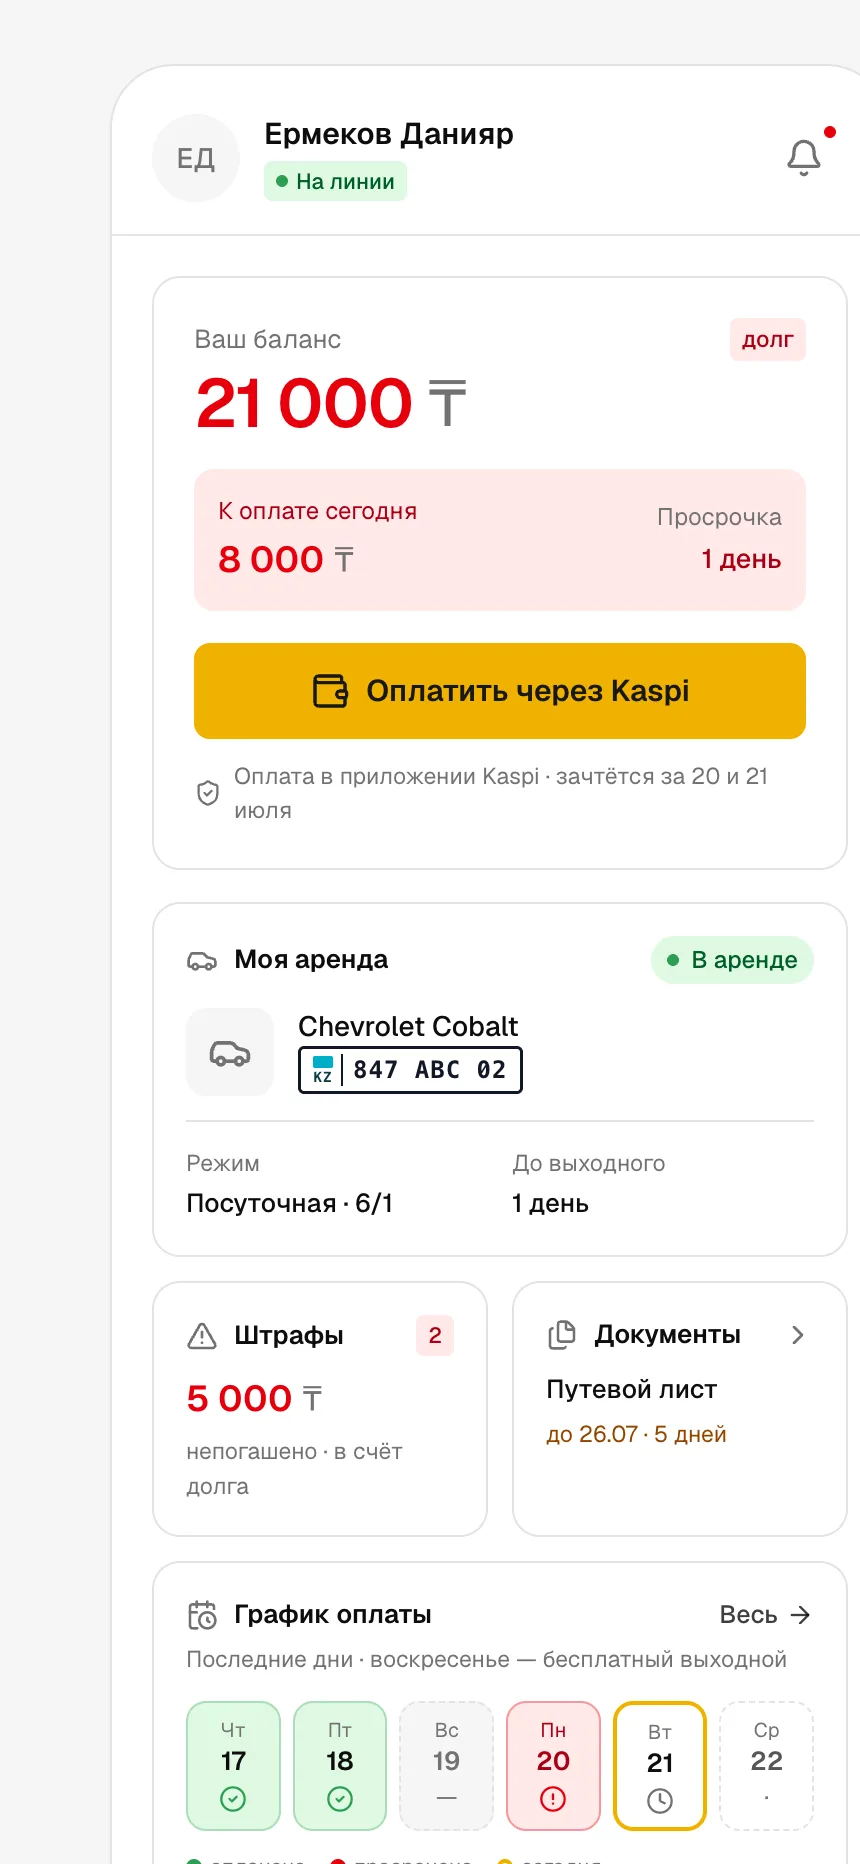
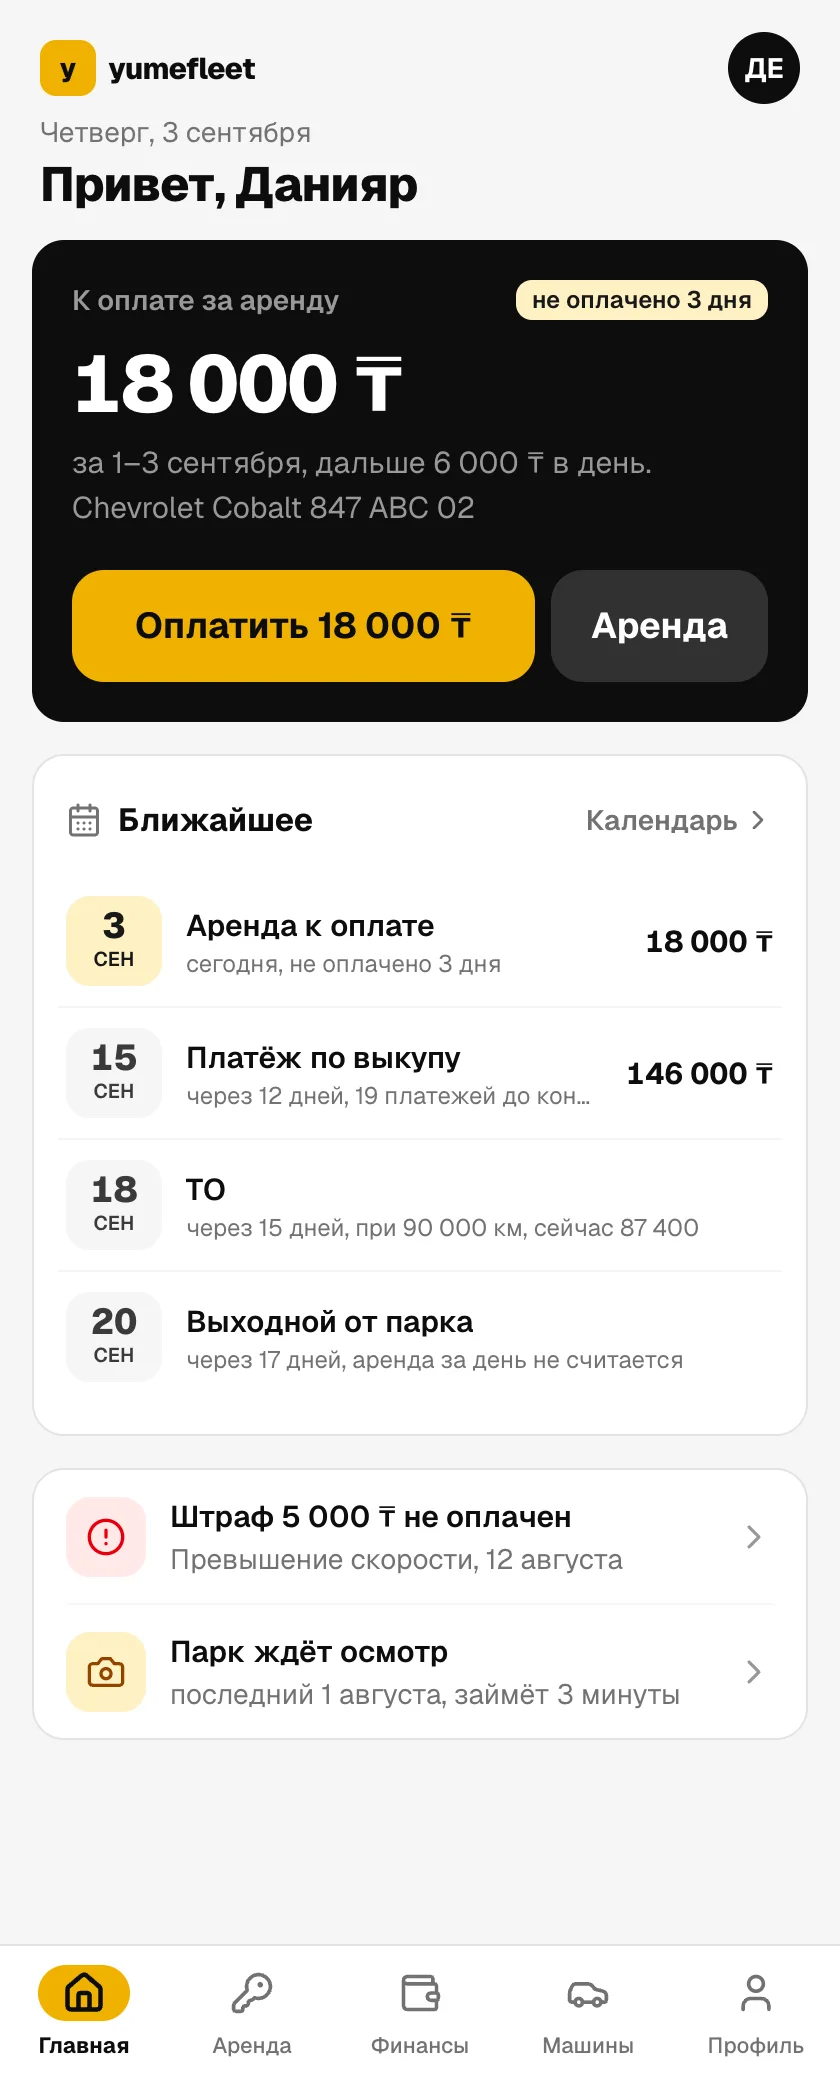
Логотипы интеграций, экран приложения водителя в пропорции телефона, номера карточек без наложения

diff --git a/index.html b/index.html
@@ -235,7 +235,7 @@
         <li><svg><use href="#i-check"/></svg>Вход по номеру телефона, без установки из стора</li>
       </ul>
     </div>
-    <div class="drv__phone" data-reveal="scale"><img width="860" height="1864" src="assets/screens/driver-mobile.webp" alt="Кабинет водителя Yume Fleet на телефоне: баланс, аренда, штрафы" loading="lazy"></div>
+    <div class="drv__phone" data-reveal="scale"><img width="840" height="2080" src="assets/screens/driver-mobile.webp" alt="Приложение водителя Yume Fleet: долг за аренду, оплата, штрафы, ТО" loading="lazy"></div>
   </div>
 </section>
 
@@ -247,14 +247,14 @@
       <p class="lead" data-reveal style="--d:.1s">Ничего не нужно менять в привычных инструментах. Yume Fleet собирает данные из них в одно место.</p>
     </div>
     <div class="ints" data-stagger>
-      <a class="int" href="#features"><i><img src="assets/img/kaspi-symbol.svg" alt=""></i><div><b>Kaspi Pay</b><span>оплата ссылкой, QR, автосписания</span></div></a>
-      <a class="int" href="#features"><i>eGov</i><div><b>eGov mobile</b><span>подписание договоров и актов</span></div></a>
-      <a class="int" href="#features"><i>ЕРАП</i><div><b>Штрафы ПДД и ЕРАП</b><span>протоколы, сверка оплаты по БИН</span></div></a>
-      <a class="int" href="#features"><i>ИИН</i><div><b>Реестр должников</b><span>проверка водителя через data.egov.kz</span></div></a>
-      <a class="int" href="#features"><i><svg><use href="#i-shield"/></svg></i><div><b>Чёрный список парков</b><span>общая база проблемных водителей</span></div></a>
-      <a class="int int--soon" href="#features"><i><svg><use href="#i-pin"/></svg></i><div><b>Wialon GPS <em>скоро</em></b><span>где машина, пробег для ТО</span></div></a>
-      <a class="int int--soon" href="#features"><i>Я</i><div><b>Яндекс Флит <em>скоро</em></b><span>машины и водители из агрегатора</span></div></a>
-      <a class="int" href="#features"><i><svg><use href="#i-inbox"/></svg></i><div><b>Excel</b><span>импорт парка и водителей, экспорт отчётов</span></div></a>
+      <a class="int" href="#features"><i><img src="assets/img/int/kaspi.png" alt="" width="42" height="42"></i><div><b>Kaspi Pay</b><span>оплата ссылкой, QR, автосписания</span></div></a>
+      <a class="int" href="#features"><i><img src="assets/img/int/egov.png" alt="" width="42" height="42"></i><div><b>eGov mobile</b><span>подписание договоров и актов</span></div></a>
+      <a class="int" href="#features"><i><img src="assets/img/int/erap.svg" alt="" width="42" height="42"></i><div><b>Штрафы ПДД и ЕРАП</b><span>протоколы, сверка оплаты по БИН</span></div></a>
+      <a class="int" href="#features"><i><img src="assets/img/int/iin.svg" alt="" width="42" height="42"></i><div><b>Реестр должников</b><span>проверка водителя через data.egov.kz</span></div></a>
+      <a class="int" href="#features"><i><img src="assets/logo/tile-dark-yellow-mark.svg" alt="" width="42" height="42"></i><div><b>Чёрный список парков</b><span>общая база проблемных водителей</span></div></a>
+      <a class="int int--soon" href="#features"><i><img src="assets/img/int/wialon.png" alt="" width="42" height="42"></i><div><b>Wialon GPS <em>скоро</em></b><span>где машина, пробег для ТО</span></div></a>
+      <a class="int int--soon" href="#features"><i><img src="assets/img/int/yandex.svg" alt="" width="42" height="42"></i><div><b>Яндекс Флит <em>скоро</em></b><span>машины и водители из агрегатора</span></div></a>
+      <a class="int" href="#features"><i><img src="assets/img/int/excel.png" alt="" width="42" height="42"></i><div><b>Excel</b><span>импорт парка и водителей, экспорт отчётов</span></div></a>
     </div>
   </div>
 </section>

diff --git a/css/styles.css b/css/styles.css
@@ -144,7 +144,9 @@ p{margin:0}
 .pain small{font-size:12px;font-weight:700;letter-spacing:.12em;color:var(--yellow-deep)}
 .pain h3{font-size:22px;letter-spacing:-.02em}
 .pain p{color:var(--muted);font-size:15px}
-.pain__num{position:absolute;right:18px;top:10px;font-size:88px;font-weight:800;letter-spacing:-.06em;color:var(--yellow-soft);line-height:1;pointer-events:none}
+.pain__num{position:absolute;right:18px;bottom:-18px;font-size:88px;font-weight:800;letter-spacing:-.06em;color:var(--yellow-soft);line-height:1;pointer-events:none;z-index:0}
+.pain>*:not(.pain__num){position:relative;z-index:1}
+.pain{padding-bottom:56px}
 @media (max-width:900px){.pains{grid-template-columns:1fr}}
 
 /* ============ BEFORE / AFTER ============ */
@@ -237,7 +239,7 @@ p{margin:0}
 .drv{display:grid;grid-template-columns:1fr 1fr;gap:64px;align-items:center}
 .drv__phone{position:relative;display:grid;place-items:center}
 .drv__phone::before{content:"";position:absolute;width:78%;aspect-ratio:1;border-radius:50%;background:radial-gradient(circle,var(--yellow-soft),transparent 70%)}
-.drv__phone img{position:relative;width:min(340px,80%);border-radius:36px;border:8px solid var(--ink);box-shadow:0 50px 80px -40px rgba(13,13,13,.6);animation:bob 7s ease-in-out infinite}
+.drv__phone img{position:relative;width:min(340px,80%);aspect-ratio:390/844;object-fit:cover;object-position:top;border-radius:40px;border:9px solid var(--ink);background:var(--ink);box-shadow:0 50px 80px -40px rgba(13,13,13,.6);animation:bob 7s ease-in-out infinite}
 .drv__list{display:grid;gap:12px;margin:28px 0 0;padding:0;list-style:none}
 .drv__list li{display:flex;gap:12px;align-items:flex-start;font-size:15px}
 .drv__list svg{width:20px;height:20px;color:var(--yellow-deep);flex:none;margin-top:1px}
@@ -247,8 +249,9 @@ p{margin:0}
 .ints{display:grid;grid-template-columns:repeat(4,1fr);gap:14px}
 .int{display:flex;gap:14px;align-items:center;padding:18px 20px;border-radius:14px;background:var(--card);border:1px solid var(--line);transition:transform .4s var(--ease),box-shadow .4s var(--ease)}
 .int:hover{transform:translateY(-3px);box-shadow:var(--shadow)}
-.int i{width:42px;height:42px;border-radius:10px;display:grid;place-items:center;font-style:normal;font-weight:800;font-size:13px;letter-spacing:-.02em;flex:none;background:var(--bg);border:1px solid var(--line)}
-.int i img,.int i svg{width:22px;height:22px}
+.int i{width:44px;height:44px;border-radius:11px;display:grid;place-items:center;font-style:normal;flex:none;overflow:hidden;background:var(--bg);border:1px solid var(--line)}
+.int i img{width:44px;height:44px;object-fit:cover;border-radius:11px}
+.int i svg{width:22px;height:22px}
 .int b{display:block;font-size:15px}
 .int span{font-size:13px;color:var(--muted)}
 @media (max-width:980px){.ints{grid-template-columns:1fr 1fr}}
